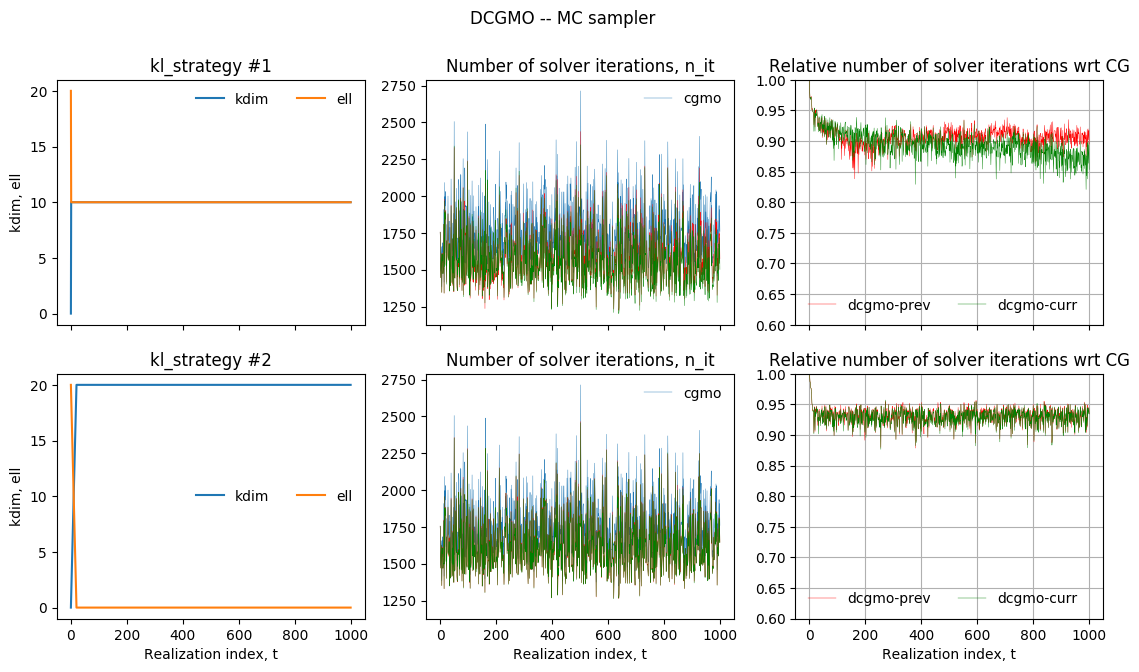
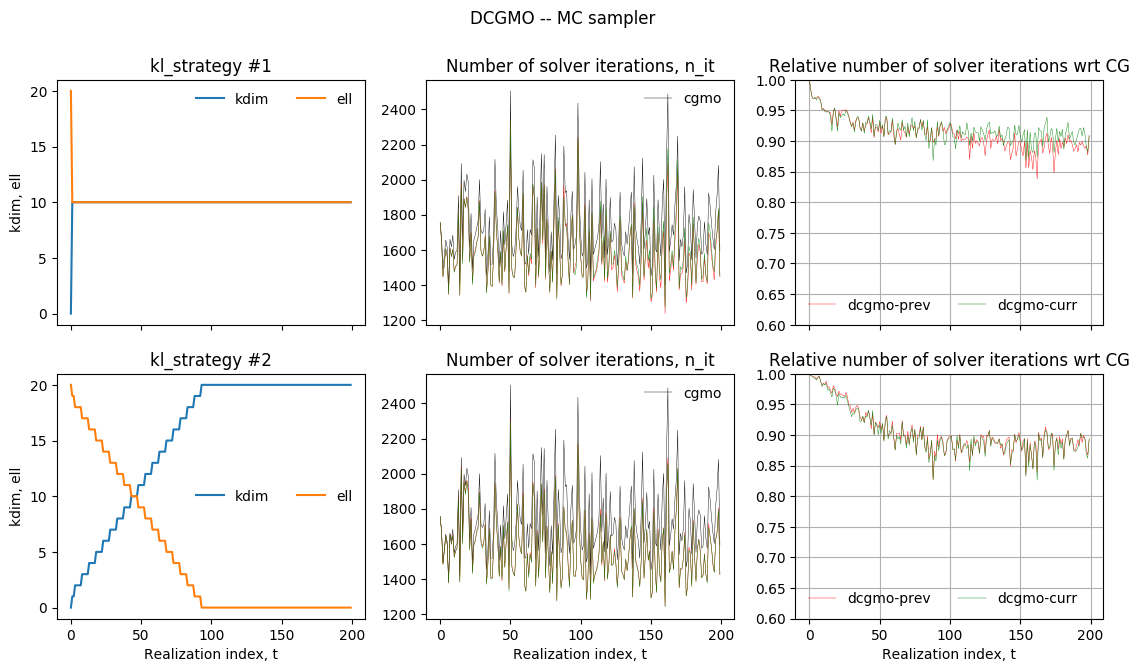
first-commit

diff --git a/examples/example04_recycler.py b/examples/example04_recycler.py
@@ -30,7 +30,7 @@ for __smp in ("mc", "mcmc"):
     for kl_strategy in range(2):
       __dcg = solver(n=smp["mc"].n, solver_type="dcg")
       dcg[(__smp, which_op, kl_strategy)] = __dcg
-      dcgmo[(__smp, which_op, kl_strategy)] = recycler(smp[__smp], __dcg, "dcgmo", kl=kl, kl_strategy=kl_strategy, which_op=which_op)
+      dcgmo[(__smp, which_op, kl_strategy)] = recycler(smp[__smp], __dcg, "dcgmo", kl=kl, kl_strategy=kl_strategy, which_op=which_op, t_end_kl=300, t_end_def=300)
 
 cgmo_it = {"mc":[], "mcmc":[]}
 dcgmo_it, dcgmo_kdim, dcgmo_ell = {}, {}, {}
@@ -91,11 +91,8 @@ while (smp["mcmc"].cnt_accepted_proposals < nsmp):
     print("%d/%d" %(smp["mcmc"].cnt_accepted_proposals+1, nsmp))
 
 
-
-
-
 lw = 0.3
-fig, ax = pl.subplots(2, 3, figsize=(16,7.5), sharex="col")
+fig, ax = pl.subplots(2, 3, figsize=(13.5,7), sharex="col")
 fig.suptitle("DCGMO -- MC sampler")
 # First row:
 ax[0,0].set_title("kl_strategy #1")
@@ -103,7 +100,7 @@ ax[0,0].set_ylabel("kdim, ell")
 ax[0,0].plot(dcgmo_kdim[("mc", "previous", 0)], label="kdim")
 ax[0,0].plot(dcgmo_ell[("mc", "previous", 0)], label="ell")
 ax[0,1].set_title("Number of solver iterations, n_it")
-ax[0,1].plot(cgmo_it["mc"], label="cgmo", lw=lw)
+ax[0,1].plot(cgmo_it["mc"], "k", lw=lw, label="cgmo")
 ax[0,1].plot(dcgmo_it[("mc", "previous", 0)], "r", lw=lw)
 ax[0,1].plot(dcgmo_it[("mc", "current", 0)], "g", lw=lw)
 ax[0,2].set_title("Relative number of solver iterations wrt CG")
@@ -117,7 +114,7 @@ ax[1,0].set_ylabel("kdim, ell")
 ax[1,0].plot(dcgmo_kdim[("mc", "previous", 1)], label="kdim")
 ax[1,0].plot(dcgmo_ell[("mc", "previous", 1)], label="ell")
 ax[1,1].set_title("Number of solver iterations, n_it")
-ax[1,1].plot(cgmo_it["mc"], label="cgmo", lw=lw)
+ax[1,1].plot(cgmo_it["mc"], "k", lw=lw, label="cgmo")
 ax[1,1].plot(dcgmo_it[("mc", "previous", 1)], "r", lw=lw)
 ax[1,1].plot(dcgmo_it[("mc", "current", 1)], "g", lw=lw)
 ax[1,2].set_title("Relative number of solver iterations wrt CG")
@@ -127,48 +124,43 @@ ax[1,0].legend(frameon=False, ncol=2); ax[1,1].legend(frameon=False); ax[1,2].le
 for j in range(3):
   ax[1,j].set_ylim(ax[0,j].get_ylim())
   ax[1,j].set_xlabel("Realization index, t")
+ax[0,2].grid(); ax[1,2].grid()
 #pl.show()
 pl.savefig(figures_path+"example04_recycler_a.png", bbox_inches='tight')
 
-
-
-
-fig, ax = pl.subplots(2, 4, figsize=(16,7.5), sharey="row")
+fig, ax = pl.subplots(2, 3, figsize=(13.5,7), sharex="col")
+fig.suptitle("DCGMO -- MCMC sampler")
 # First row:
-ax[0,0].set_title("MC / kl_strategy #1")
-ax[0,0].set_ylabel("Number of solver iterations, n_it")
-ax[0,0].plot(cgmo_it["mc"], label="cgmo")
-ax[0,0].plot(dcgmo_it[("mc", "previous", 0)], "-+", label="dcgmo-prev")
-ax[0,0].plot(dcgmo_it[("mc", "current", 0)], label="dcgmo-curr")
-ax[0,1].set_title("MC / kl_strategy #2")
-ax[0,1].plot(cgmo_it["mc"], label="cgmo")
-ax[0,1].plot(dcgmo_it[("mc", "previous", 1)], "-+", label="dcgmo-prev")
-ax[0,1].plot(dcgmo_it[("mc", "current", 1)], label="dcgmo-curr")
-ax[0,2].set_title("MCMC / kl_strategy #1")
-ax[0,2].plot(cgmo_it["mcmc"], label="cgmo")
-ax[0,2].plot(dcgmo_it[("mcmc", "previous", 0)], "-+", label="dcgmo-prev")
-ax[0,2].plot(dcgmo_it[("mcmc", "current", 0)], label="dcgmo-curr")
-ax[0,3].set_title("MCMC / kl_strategy #2")
-ax[0,3].plot(cgmo_it["mcmc"], label="cgmo")
-ax[0,3].plot(dcgmo_it[("mcmc", "previous", 1)], "-+", label="dcgmo-prev")
-ax[0,3].plot(dcgmo_it[("mcmc", "current", 1)], label="dcgmo-curr")
-# Second row
+ax[0,0].set_title("kl_strategy #1")
+ax[0,0].set_ylabel("kdim, ell")
+ax[0,0].plot(dcgmo_kdim[("mcmc", "previous", 0)], label="kdim")
+ax[0,0].plot(dcgmo_ell[("mcmc", "previous", 0)], label="ell")
+ax[0,1].set_title("Number of solver iterations, n_it")
+ax[0,1].plot(cgmo_it["mcmc"], "k", lw=lw, label="cgmo")
+ax[0,1].plot(dcgmo_it[("mcmc", "previous", 0)], "r", lw=lw)
+ax[0,1].plot(dcgmo_it[("mcmc", "current", 0)], "g", lw=lw)
+ax[0,2].set_title("Relative number of solver iterations wrt CG")
+ax[0,2].plot(np.array(dcgmo_it[("mcmc", "previous", 0)])/np.array(cgmo_it["mcmc"], dtype=float), "r", lw=lw, label="dcgmo-prev")
+ax[0,2].plot(np.array(dcgmo_it[("mcmc", "current", 0)])/np.array(cgmo_it["mcmc"], dtype=float), "g", lw=lw, label="dcgmo-curr")
+ax[0,0].legend(frameon=False, ncol=2); ax[0,1].legend(frameon=False); ax[0,2].legend(frameon=False, ncol=2)
+# Second row:
+ax[1,0].set_title("kl_strategy #2")
 ax[1,0].set_ylabel("kdim, ell")
-ax[1,0].plot(dcgmo_kdim[("mc", "previous", 0)], label="kdim")
-ax[1,0].plot(dcgmo_ell[("mc", "previous", 0)], label="ell")
-ax[1,1].plot(dcgmo_kdim[("mc", "previous", 1)], label="kdim")
-ax[1,1].plot(dcgmo_ell[("mc", "previous", 1)], label="ell")
-ax[1,2].plot(dcgmo_kdim[("mcmc", "previous", 0)], label="kdim")
-ax[1,2].plot(dcgmo_ell[("mcmc", "previous", 0)], label="ell")
-ax[1,3].plot(dcgmo_kdim[("mcmc", "previous", 1)], label="kdim")
-ax[1,3].plot(dcgmo_ell[("mcmc", "previous", 1)], label="ell")
-ax[1,0].yaxis.set_ticks(np.linspace(0, kl, kl/2+1, dtype=int)); ax[1,0].set_ylim(-1, kl+1)
-for i in range(2):
-  for j in range(4):
-    ax[i,j].legend(frameon=False, ncol=2)
-for j in range(4):
-  ax[0,j].grid()
+ax[1,0].plot(dcgmo_kdim[("mcmc", "previous", 1)], label="kdim")
+ax[1,0].plot(dcgmo_ell[("mcmc", "previous", 1)], label="ell")
+ax[1,1].set_title("Number of solver iterations, n_it")
+ax[1,1].plot(cgmo_it["mcmc"], "k", lw=lw, label="cgmo")
+ax[1,1].plot(dcgmo_it[("mcmc", "previous", 1)], "r", lw=lw)
+ax[1,1].plot(dcgmo_it[("mcmc", "current", 1)], "g", lw=lw)
+ax[1,2].set_title("Relative number of solver iterations wrt CG")
+ax[1,2].plot(np.array(dcgmo_it[("mcmc", "previous", 1)])/np.array(cgmo_it["mcmc"], dtype=float), "r", lw=lw, label="dcgmo-prev")
+ax[1,2].plot(np.array(dcgmo_it[("mcmc", "current", 1)])/np.array(cgmo_it["mcmc"], dtype=float), "g", lw=lw, label="dcgmo-curr")
+ax[1,0].legend(frameon=False, ncol=2); ax[1,1].legend(frameon=False); ax[1,2].legend(frameon=False, ncol=2)
+ax[1,2].set_ylim(0.6,1)
+for j in range(3):
+  ax[0,j].set_ylim(ax[1,j].get_ylim())
   ax[1,j].set_xlabel("Realization index, t")
-fig.suptitle("DCGMO")
+ax[0,1].grid(); ax[1,1].grid()
+ax[0,2].grid(); ax[1,2].grid()
 #pl.show()
-pl.savefig(figures_path+"example04_recycler.png", bbox_inches='tight')
+pl.savefig(figures_path+"example04_recycler_b.png", bbox_inches='tight')

diff --git a/recyclers.py b/recyclers.py
@@ -10,7 +10,7 @@ class recycler:
         do_assembly, prepare, solve.
   """
   def __init__(self, sampler, solver, recycler_type, dt=0, t_end_def=0,
-  	       kl=5, kl_strategy=0, dp_seq="pd", which_op="previous", approx="HR"):
+  	       kl=5, kl_strategy=0, t_end_kl=0, dp_seq="pd", which_op="previous", approx="HR"):
     self.sampler = sampler
     self.solver = solver
     self.type = recycler_type
@@ -31,6 +31,13 @@ class recycler:
       self.kl_strategy = int(kl_strategy)
       if self.kl_strategy not in (0, 1):
         self.kl_strategy = 0
+      self.t_end_kl = int(t_end_kl)
+      if (self.t_end_kl < 0):
+        self.t_end_kl = 0
+      if (kl_strategy == 1) & (self.t_end_kl >= 0):
+        if (self.t_end_kl == 0):
+          self.t_end_kl = 100
+        self.dt_kl = self.t_end_kl/self.kl
       self.which_op = str(which_op)
       if self.which_op not in ("previous", "current"):
         self.which_op = "previous"
@@ -49,6 +56,12 @@ class recycler:
       self.kl_strategy = int(kl_strategy)
       if self.kl_strategy not in (0, 1):
         self.kl_strategy = 0
+      if (self.t_end_kl < 0):
+        self.t_end_kl = 0
+      if (kl_strategy == 1) & (self.t_end_kl >= 0):
+        if (self.t_end_kl == 0):
+          self.t_end_kl = 100
+        self.dt_kl = self.t_end_kl/self.kl
       self.dp_seq = str(dp_seq)
       if self.dp_seq not in ("pd", "dp"):
   	    self.dp_seq = "pd"
@@ -262,7 +275,21 @@ class recycler:
       if (self.kl_strategy == 0):
         new_kdim = min(self.kl/2, self.solver.kdim+self.solver.ell)
       elif (self.kl_strategy == 1):
-        new_kdim = min(self.solver.kdim+1, self.solver.kdim+self.solver.ell)
+        if (self.solver.kdim == 0):
+          new_kdim = 1
+        else:
+          if (self.sampler.type == "mc") & (self.sampler.reals < self.t_end_kl):
+            if (self.sampler.reals%self.dt_kl == 0):
+              new_kdim = new_kdim = min(self.solver.kdim+1, self.solver.kdim+self.solver.ell)
+            else:
+              new_kdim = self.solver.kdim
+          elif (self.sampler.type == "mcmc"):
+            if (self.sampler.cnt_accepted_proposals < self.t_end_kl) & (self.sampler.cnt_accepted_proposals%self.dt_kl == 0):
+              new_kdim = new_kdim = min(self.solver.kdim+1, self.solver.kdim+self.solver.ell)
+            else:
+              new_kdim = self.solver.kdim
+          else:
+            new_kdim = min(self.solver.kdim+1, self.solver.kdim+self.solver.ell)
     return new_kdim
 
   def __set_attempted_ell(self):
@@ -288,8 +315,9 @@ class recycler:
       else:
         if (self.sampler.type == "mc") & (self.sampler.reals < self.t_end_def):
           self.__update_W()
-        elif (self.sampler.type == "mcmc") & (self.sampler.cnt_accepted_proposals < self.t_end_def):
-          self.__update_W()
+        elif (self.sampler.type == "mcmc"):
+          if (self.sampler.cnt_accepted_proposals < self.t_end_def):
+            self.__update_W()
     
     self.solver.presolve(A=self.sampler.A, b=self.sampler.b, ell=self.solver.ell)
 
